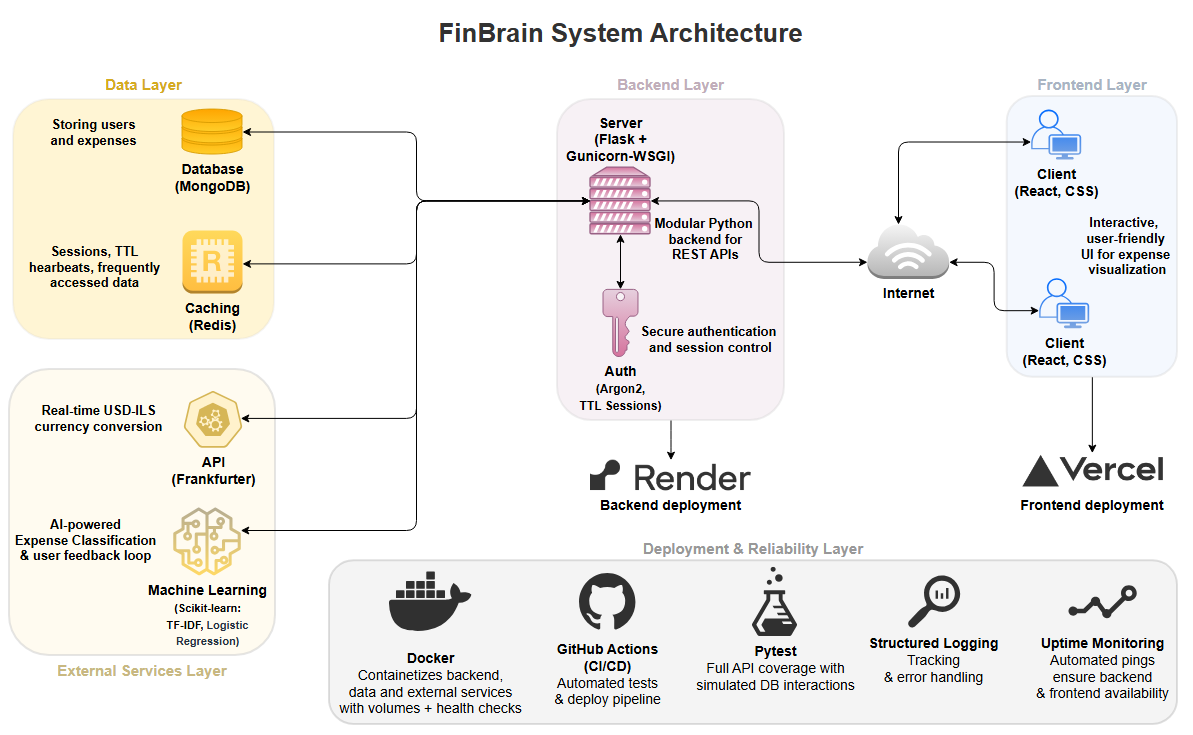
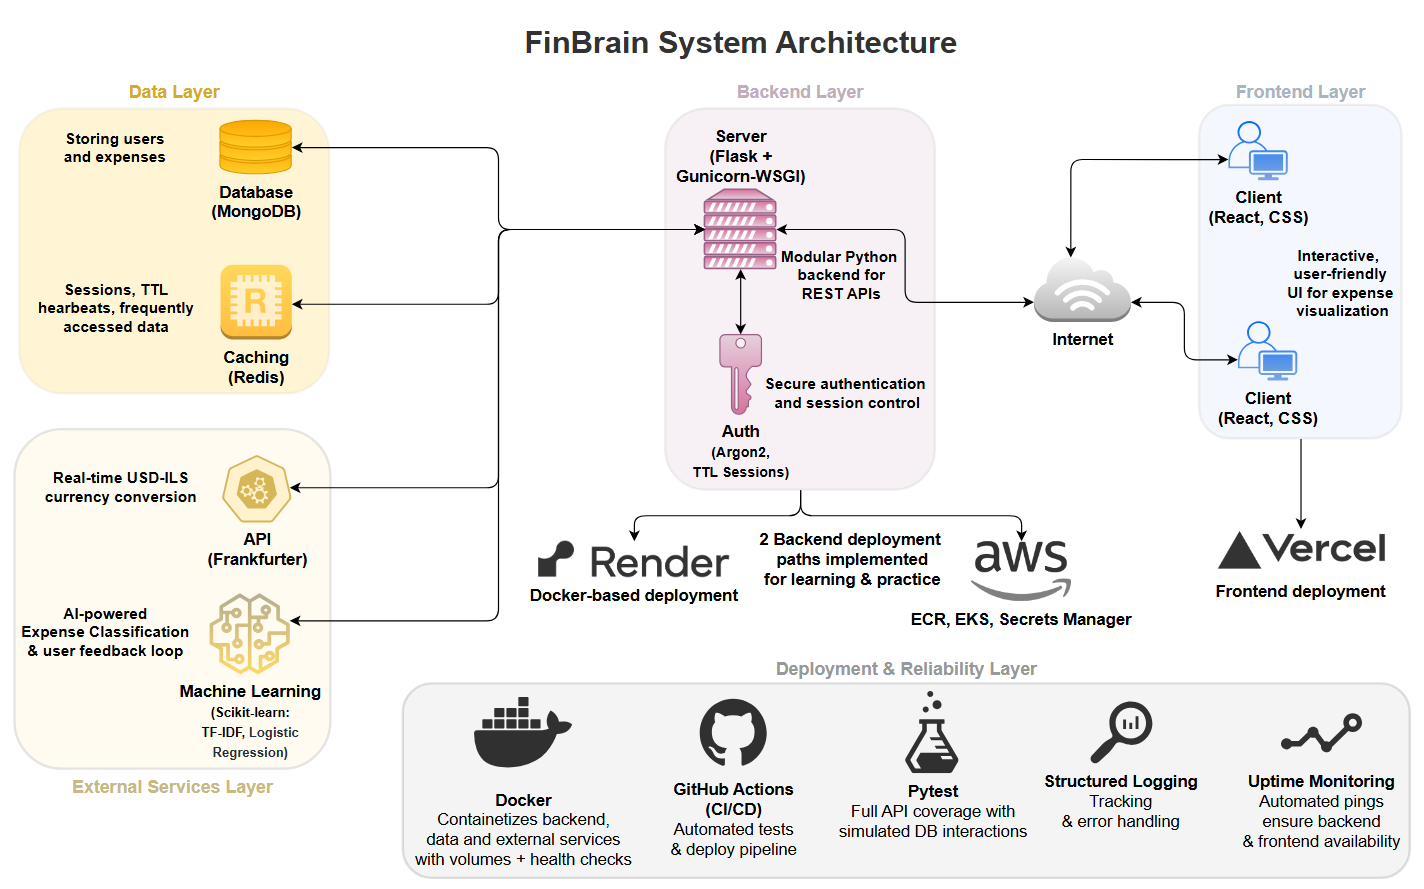
update stage 4 AWS

diff --git a/README.md b/README.md
@@ -83,6 +83,19 @@ I treated FinBrain as a real-world product, not just an app to explore concepts 
 - **Vercel (Frontend)** – serves the React client with optimized builds and automatic redeploys from GitHub.  
 - **Uptime Monitoring** – automated periodic pings verify backend availability and alert on potential downtime.
 
+**Cloud & Infrastructure (AWS)**
+- **Amazon ECR (Elastic Container Registry)** – private Docker registry for storing backend container images.
+- **Amazon EKS (Elastic Kubernetes Service)** – managed Kubernetes cluster running FinBrain’s backend and Redis containers.
+- **Kubernetes Deployments & Services** – YAML-based configuration defining replicas, load balancing, and auto-healing for high availability.
+- **LoadBalancer Service** – exposes the Flask API securely to the internet with an external IP.
+- **AWS Secrets Manager** – centralized encrypted storage for sensitive credentials (e.g., MONGO_URI, REDIS_URL).
+- **IAM Roles for Service Accounts** (IRSA) – access control letting only authorized pods retrieve specific secrets.
+- **Secrets Store CSI Driver** – mounts secrets from AWS into pods at runtime as secure volumes.
+- **Cluster Autoscaler** – dynamically adds or removes EC2 worker nodes based on CPU and memory utilization.
+- **EC2 (Worker Nodes)** – virtual machines powering Kubernetes pods, configured with t3.medium instances for optimal performance.
+- **AWS CLI + eksctl + kubectl** – full infrastructure management and deployment automation from the terminal.
+- **AWS IAM (Identity & Access Management)** – secure authentication and role-based access for both human and service accounts.
+
 ---
 
 ## Beyond the Code – Thought Process
@@ -169,6 +182,14 @@ FinBrain/
 │   ├── Makefile                     # Development commands
 │   └── requirements.txt             # Python dependencies
 │
+├── aws                              # AWS CLI folder – contains binaries and dependencies for running AWS commands
+├── aws-provider.yaml                # Installs AWS Secrets Manager provider for Kubernetes (CSI Driver)
+├── deployment.yaml                  # Kubernetes Deployment – runs Flask backend pods from ECR image
+├── service.yaml                     # Kubernetes Service – exposes Flask backend via LoadBalancer (public IP)
+├── finbrain-secretprovider.yaml     # SecretProviderClass – mounts secrets from AWS Secrets Manager into pods
+├── redis-deployment.yaml            # Kubernetes Deployment – runs Redis pod inside the cluster
+├── redis-service.yaml               # Internal Service – allows backend pods to communicate with Redis
+│
 ├── README.md                        # Project documentation
 └── LICENSE                          # MIT License
 ```
@@ -219,8 +240,8 @@ FinBrain/
 
 These are the features and improvements currently being developed:
 
-- **Next-Level Cloud Infrastructure & Deployment** 
-  Exploring and learning Kubernetes (EKS) on AWS as the next step in understanding advanced container orchestration, scalability, and automated load management.
+- **Advanced Cloud Infrastructure Enhancements** 
+  Continuing to expand FinBrain’s AWS-based architecture — building on the existing ECR + EKS deployment with deeper Kubernetes automation, cost optimization, improved monitoring, and advanced IAM & security configurations.
 
 - **Performance & Efficiency Improvements**
   Ongoing work to optimize the application for faster response times, reduced resource usage, and smoother overall performance as the project scales.

diff --git a/My AWS Deployment Study Journey/Stage 4 - Secure Secrets with AWS + IRSA.md b/My AWS Deployment Study Journey/Stage 4 - Secure Secrets with AWS + IRSA.md
@@ -43,7 +43,7 @@
 
 # 5. Create IAM Policy to allow pods to access AWS Secrets 
 - Before pods can read secrets from Secrets Manager, they must be authorized. I created an IAM Policy that grants permission to retrieve specific secrets. I used this command: **aws iam create-policy \ --policy-name FinbrainSecretsAccessPolicy \ --description "Allow FinBrain pods to read secrets from AWS Secrets Manager" \ --policy-document '{ "Version": "2012-10-17", "Statement": [ { "Effect": "Allow", "Action": [    "secretsmanager:GetSecretValue" ], "Resource": "arn:aws:secretsmanager:eu-central-1:832871077677:secret:finbrain-secrets-*" } ] }'**
-- Grants access to call secretsmanager:GetSecretValue, Only for secrets that start with finbrain-secrets, Region = eu-central-1, Account = 832871077677 (I can get my account number with the command: **aws sts get-caller-identity**),
+- Grants access to call secretsmanager:GetSecretValue, Only for secrets that start with finbrain-secrets, Region = eu-central-1, Account = 832871077677 (I can get my account number with the command: **aws sts get-caller-identity**).
 
 # 6. Enable IAM OIDC Provider on the cluster 
 - I used this command: **eksctl utils associate-iam-oidc-provider \ --region eu-central-1 \ --cluster finbrain-cluster \ --approve**.
@@ -73,7 +73,7 @@
 - The container now "sees" a file inside /mnt/secrets-store/mongo_uri and /mnt/secrets-store/redis_url at runtime.
 - These files are automatically created by the CSI driver when the pod starts.
 - They contain the real values from AWS Secrets Manager.
-- - To update it I ran the command: **kubectl apply -f deployment.yaml**.
+- To update it I ran the command: **kubectl apply -f deployment.yaml**.
 
 # 11. Updated cache.py and db.py to Support "File-based Secrets"
 - I modified the code so that if REDIS_URL or MONGO_URI is actually a file path (not a URL), it reads the contents of the file.
